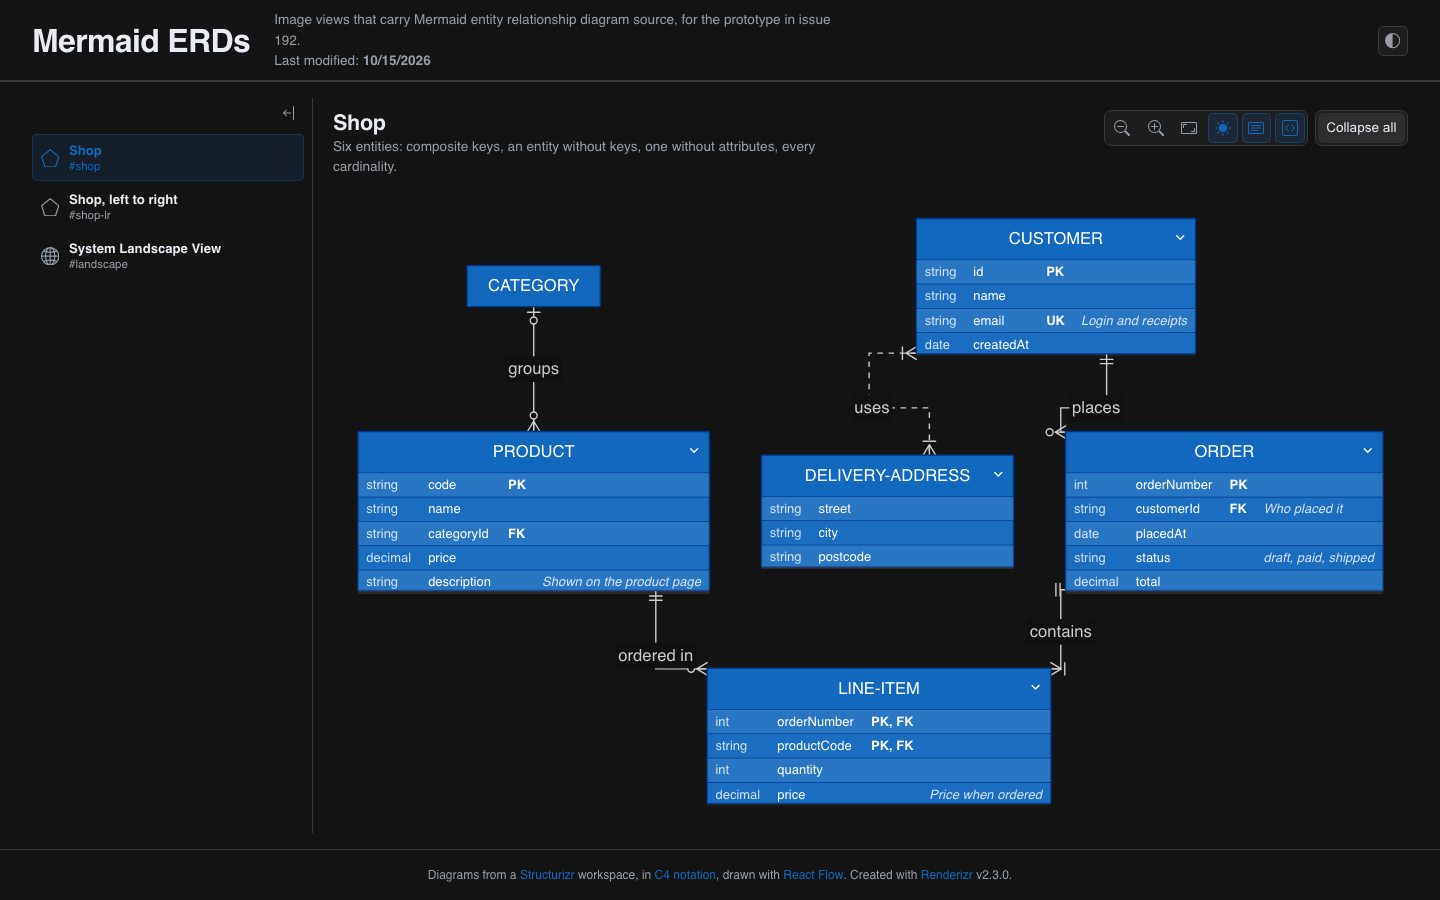
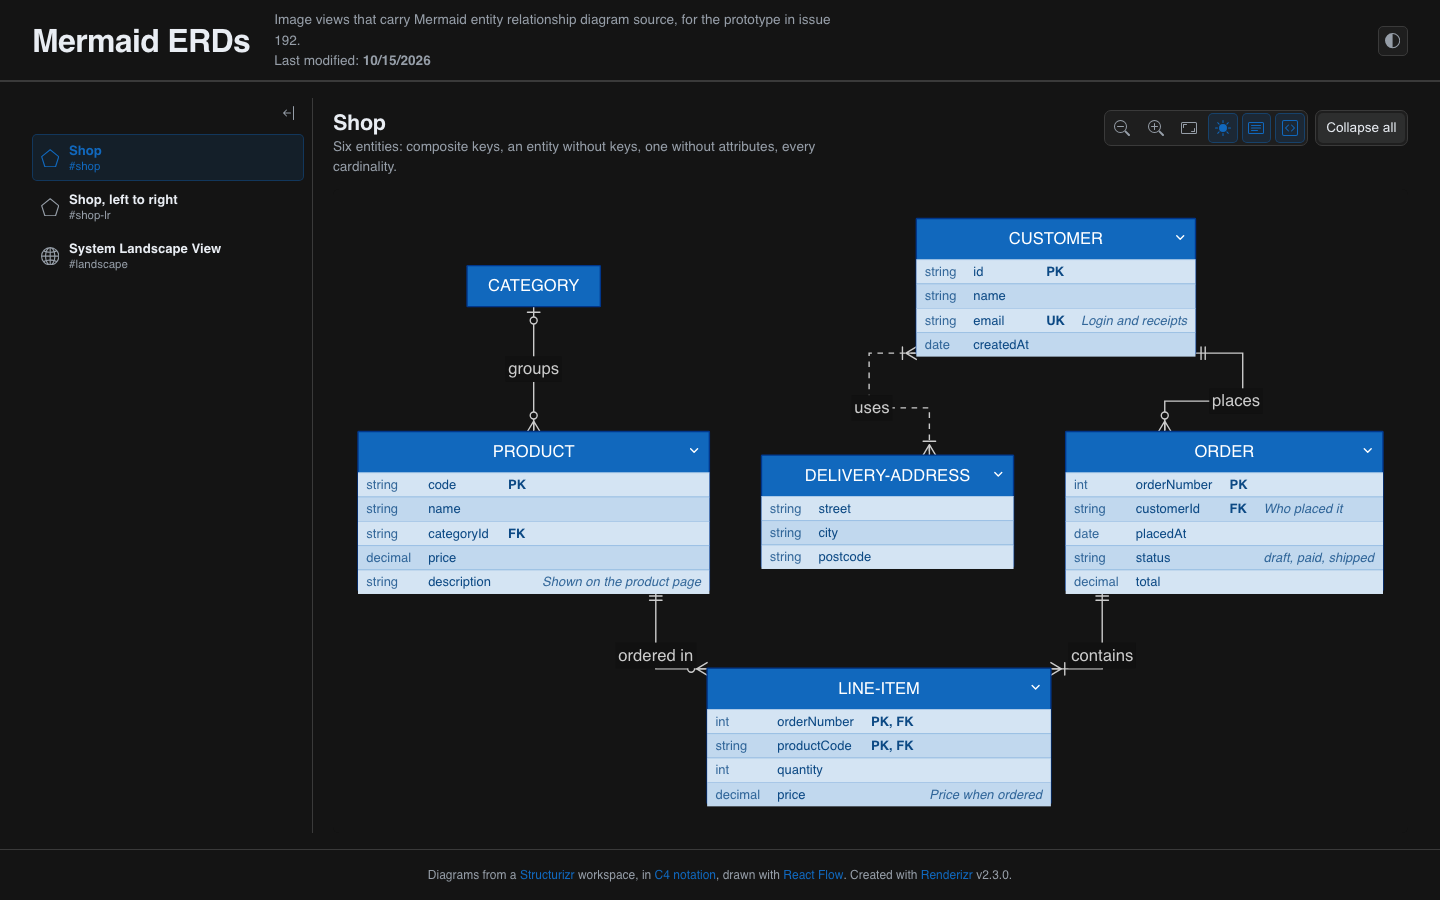
chore: refit on every toggle, tint rows and keep end markers off the route's bends

diff --git a/src/engine/react-flow/island.tsx b/src/engine/react-flow/island.tsx
@@ -371,10 +371,6 @@ const Activate = createContext<IslandProps["onActivate"]>(() => {});
  */
 const Editing = createContext(false);
 const NO_OVERRIDES: Record<string, boolean> = {};
-/** PROTOTYPE (issue 192): `?entity-motion` eases entities to their new places. */
-const ENTITY_MOTION =
-    typeof location !== "undefined" &&
-    new URLSearchParams(location.search).has("entity-motion");
 
 /** PROTOTYPE (issue 192): flips one entity, from its header's chevron. */
 const EntityToggle = createContext<
@@ -479,11 +475,10 @@ function EntityBody({ data }: { data: ElementBox }) {
                         height: entity.rowHeight,
                         alignItems: "center",
                         fontSize: entity.rowSize,
-                        borderTop: `1px solid ${data.stroke}`,
-                        background:
-                            index % 2 === 0
-                                ? "rgba(255,255,255,0.10)"
-                                : "rgba(255,255,255,0.04)",
+                        borderTop: `1px solid color-mix(in srgb, ${data.background ?? "#ffffff"} 40%, #ffffff)`,
+                        // A tint of the fill: odd rows lighter than even ones.
+                        background: `color-mix(in srgb, ${data.background ?? "#ffffff"} ${index % 2 === 0 ? 18 : 26}%, #ffffff)`,
+                        color: `color-mix(in srgb, ${data.background ?? "#000000"} 70%, #000000)`,
                     }}
                 >
                     {cells.map(([cell, width]) =>
@@ -2309,15 +2304,11 @@ function Canvas({
 
     const flow = useReactFlow();
     const wrapper = useRef<HTMLDivElement>(null);
-    /** PROTOTYPE (issue 192): where the flipped entity was, to pan it back under the pointer. */
-    const pendingPan = useRef<{ id: string; x: number; y: number } | null>(
-        null,
-    );
+    // PROTOTYPE (issue 192): every expand or collapse, from a chevron or the
+    // toolbar, refits the diagram as a new view would.
     const toggleEntity = useCallback(
         (id: string) => {
-            const box = graph?.elements.find((element) => element.id === id);
-            pendingPan.current = box ? { id, x: box.x, y: box.y } : null;
-            moved.current = true;
+            moved.current = false;
             setOverrides((before) => {
                 const ids =
                     before.key === viewKey &&
@@ -2332,29 +2323,18 @@ function Canvas({
                 };
             });
         },
-        [graph, viewKey, stored.entitiesCollapsed],
+        [viewKey, stored.entitiesCollapsed],
     );
-    useLayoutEffect(() => {
-        const pan = pendingPan.current;
-        if (!pan || !graph) return;
-        pendingPan.current = null;
-        const box = graph.elements.find((element) => element.id === pan.id);
-        if (!box) return;
-        const viewport = flow.getViewport();
-        flow.setViewport(
-            {
-                x: viewport.x - (box.x - pan.x) * viewport.zoom,
-                y: viewport.y - (box.y - pan.y) * viewport.zoom,
-                zoom: viewport.zoom,
-            },
-            { duration: ENTITY_MOTION ? TRANSITION_MS : 0 },
-        );
-    }, [graph, flow]);
     const [size, setSize] = useState({ width: 0, height: 0 });
     /** The key of the last view fully painted; `data-ready` is true only for it. */
     const [readyKey, setReadyKey] = useState<string | null>(null);
     /** Set once the reader zooms or pans; refits on resize stop until `fit()`. */
     const moved = useRef(false);
+    const shownCollapsed = useRef(stored.entitiesCollapsed);
+    if (shownCollapsed.current !== stored.entitiesCollapsed) {
+        shownCollapsed.current = stored.entitiesCollapsed;
+        moved.current = false;
+    }
     const painted = useRef<string | null>(null);
     // A change to the edited layout never refits, and align, distribute,
     // nudge and select all arrange the selection, by command or by key
@@ -3114,9 +3094,6 @@ function Canvas({
             <Activate.Provider value={onActivate}>
                 <Editing.Provider value={editable}>
                     <EntityToggle.Provider value={toggleEntity}>
-                        {ENTITY_MOTION && (
-                            <style>{`.react-flow__node { transition: transform ${TRANSITION_MS}ms ease-in-out, width ${TRANSITION_MS}ms, height ${TRANSITION_MS}ms; }`}</style>
-                        )}
                         <CanvasBackground.Provider
                             value={graph?.background ?? "#ffffff"}
                         >

diff --git a/src/engine/geometry/routing/route-view.ts b/src/engine/geometry/routing/route-view.ts
@@ -31,6 +31,7 @@ import {
     type DrawnRoute,
     endHeading,
     onOutline,
+    outward,
     polylinePath,
     type RoutingMode,
     SIDES,
@@ -70,6 +71,11 @@ export type RoutingEdge = {
      * it, and the line ends this far short of its target end.
      */
     thickness: number;
+    /**
+     * PROTOTYPE (issue 192): how long each end runs straight out of its
+     * side before the route may bend, so an end marker never sits on a knee.
+     */
+    endRoom?: number;
 };
 
 /**
@@ -147,8 +153,12 @@ export function routeView(
                   source: facingSide(from, vertices[0]),
                   target: facingSide(to, vertices[vertices.length - 1]),
               }
-            : chooseSides(from, to, edge.routing, (a, b) =>
-                  isStraightClear(a, b, others, [from, to], padding),
+            : chooseSides(
+                  from,
+                  to,
+                  edge.routing,
+                  (a, b) => isStraightClear(a, b, others, [from, to], padding),
+                  edge.endRoom,
               );
         sides.set(index, chosen);
         addEnd(source.id, {
@@ -318,7 +328,28 @@ function routeOf(
     const { vertices } = edge;
 
     let points: Point[];
-    if (edge.routing === "Orthogonal") {
+    const room = edge.endRoom ?? 0;
+    if (edge.routing === "Orthogonal" && room > 0 && !vertices.length) {
+        // Route between two stubs `room` out from each side, then add the
+        // ends back: the first and last legs are at least `room` long.
+        const stub = (point: Point, side: typeof sides.source) => {
+            const out = outward(side);
+            return { x: point.x + out.x * room, y: point.y + out.y * room };
+        };
+        points = [
+            start,
+            ...orthogonalRoute(
+                stub(start, sides.source),
+                sides.source,
+                stub(end, sides.target),
+                sides.target,
+                others,
+                [from, to],
+                padding,
+            ),
+            end,
+        ];
+    } else if (edge.routing === "Orthogonal") {
         points = vertices.length
             ? orthogonalThrough(
                   [start, ...vertices, end],

diff --git a/src/engine/geometry/routing/sides.ts b/src/engine/geometry/routing/sides.ts
@@ -95,6 +95,7 @@ export function chooseSides(
     to: Rect,
     mode: RoutingMode,
     isClear: (a: Point, b: Point) => boolean = () => true,
+    room = 0,
 ): EdgeSides {
     if (mode !== "Orthogonal") {
         const source = facingSide(from, centerOf(to));
@@ -116,8 +117,19 @@ export function chooseSides(
                 mode === "Orthogonal"
                     ? Math.abs(b.x - a.x) + Math.abs(b.y - a.y)
                     : Math.hypot(b.x - a.x, b.y - a.y);
+            // PROTOTYPE (issue 192): bends counted from the stubs `room` out
+            // of each side, where the route may first turn.
+            const out = outward(source);
+            const into = outward(target);
             const cost =
-                length + BEND_PENALTY * bendsBetween(a, source, b, target);
+                length +
+                BEND_PENALTY *
+                    bendsBetween(
+                        { x: a.x + out.x * room, y: a.y + out.y * room },
+                        source,
+                        { x: b.x + into.x * room, y: b.y + into.y * room },
+                        target,
+                    );
             if (cost < lowest - CLEARANCE) {
                 lowest = cost;
                 best = { source, target };

diff --git a/src/engine/geometry/entity.ts b/src/engine/geometry/entity.ts
@@ -81,8 +81,14 @@ export function layOutEntity(
     const headerHeight = Math.round(nameSize * 1.2 + 2 * HEADER_PADDING);
     const rowHeight = Math.round(rowSize * 1.8);
     const width = Math.max(header, rowsWidth);
-    // The name column takes whatever the header leaves over.
-    if (rows.length > 0 && width > rowsWidth) columns.name += width - rowsWidth;
+    // The last column shown takes whatever the header leaves over, so keys
+    // sit right after the name.
+    if (rows.length > 0 && width > rowsWidth) {
+        const last = (["comment", "keys", "name"] as const).find(
+            (cell) => columns[cell] > 0,
+        );
+        if (last) columns[last] += width - rowsWidth;
+    }
     return {
         width,
         height: headerHeight + rows.length * rowHeight,

diff --git a/src/engine/react-flow/graph.ts b/src/engine/react-flow/graph.ts
@@ -876,6 +876,8 @@ function drawView(
             style: style.style,
             opacity: style.opacity / 100,
             ...(relationship.properties?.["renderizr.mermaid.end"] && {
+                // The longest marker (zero or more) plus a little.
+                endRoom: 28 * Math.max(1, style.thickness / 2) + 8,
                 ends: [
                     relationship.properties["renderizr.mermaid.start"],
                     relationship.properties["renderizr.mermaid.end"],

diff --git a/research/192-erd-entity-prototype.md b/research/192-erd-entity-prototype.md
@@ -8,16 +8,16 @@ A rough ERD in the React Flow engine, to react to how an entity looks and behave
 pnpm dev -- test/__fixtures__/mermaid-erd.json
 ```
 
-Open the **Shop** or **Shop, left to right** view. Add `?entity-motion` before the hash to ease entities to their new places on a toggle.
+Open the **Shop** or **Shop, left to right** view.
 
 ## What the prototype does
 
 - **Fixture**: `test/__fixtures__/mermaid-erd.json` carries `mermaid-erd/shop.mmd` (six entities: composite keys, an entity with no key attribute, one with no attributes, every cardinality) as `shop` and, with `direction LR`, as `shop-lr`. Structurizr isn't installed here, so the JSON is hand-built the way Structurizr encodes `content`; `workspace.dsl` shows the source it stands for.
 - **Build** (`scripts/mermaid/index.js`, `readErd`): each entity becomes a custom element tagged `Mermaid:entity` that carries its attributes as JSON in a property; each relationship carries its start and end markers in two properties and draws dashed when non-identifying. Mermaid names an edge's cardinalities backwards (`cardA` sits at entity B), which the build undoes.
-- **Page** (`src/engine/geometry/entity.ts`, `graph.ts`): the page sizes an entity from its header and the rows its state shows, with its own text measurement, before Dagre runs. A collapsed entity shows its `PK` and `FK` attributes by name and keys; an expanded one adds the type column, the `UK` and keyless rows and, with descriptions on, the comment column. The name column takes whatever width the header leaves over.
-- **Island** (`island.tsx`): an entity draws as a box node with an HTML header and a row per attribute. The chevron is a real button with `aria-expanded`. Chevron overrides live in the canvas, for the view and the preference they were made under. A chevron click pans so the entity's header keeps its place on screen.
+- **Page** (`src/engine/geometry/entity.ts`, `graph.ts`): the page sizes an entity from its header and the rows its state shows, with its own text measurement, before Dagre runs. A collapsed entity shows its `PK` and `FK` attributes by name and keys; an expanded one adds the type column, the `UK` and keyless rows and, with descriptions on, the comment column. The last column shown takes whatever width the header leaves over, so keys sit right after the name. The header keeps the entity's fill; rows take a light tint of it, with dark text mixed from the fill.
+- **Island** (`island.tsx`): an entity draws as a box node with an HTML header and a row per attribute. The chevron is a real button with `aria-expanded`. Chevron overrides live in the canvas, for the view and the preference they were made under. Every expand or collapse, from a chevron or the toolbar, refits the diagram.
 - **Toolbar** (`current-view.ts`): "Expand all" / "Collapse all" shows on a view the build marks as an ERD, and stores `entitiesCollapsed` beside the label toggles.
-- **End markers**: one, zero or one, one or more and zero or more, drawn as strokes at each end, with hollow circles filled with the canvas background. They replace the arrowhead.
+- **End markers**: one, zero or one, one or more and zero or more, drawn as strokes at each end, with hollow circles filled with the canvas background. They replace the arrowhead. Each end runs straight out of its side for the longest marker's length plus a little before the route may bend, and side choice counts bends from those stubs, so no marker sits on a knee.
 
 ## Pictures
 
@@ -26,20 +26,18 @@ Open the **Shop** or **Shop, left to right** view. Add `?entity-motion` before t
 | Collapsed (first visit) | ![](192/light-shop-collapsed.png) | ![](192/dark-shop-collapsed.png) |
 | Expanded (Expand all) | ![](192/light-shop-expanded.png) | ![](192/dark-shop-expanded.png) |
 | Expanded, ORDER collapsed by its chevron | ![](192/light-shop-order-collapsed.png) | ![](192/dark-shop-order-collapsed.png) |
-| Collapse all after a chevron click | ![](192/light-shop-collapse-all-after-chevron.png) | ![](192/dark-shop-collapse-all-after-chevron.png) |
 | Left to right, collapsed | ![](192/light-shop-lr-collapsed.png) | ![](192/dark-shop-lr-collapsed.png) |
 | Left to right, expanded | ![](192/light-shop-lr-expanded.png) | ![](192/dark-shop-lr-expanded.png) |
 
 ## Findings
 
-- **The entity fits the engine.** The geometry modules take an entity as a Box of the size the page computes; the router, edge labels and the style cascade need no change. The silent source's primary fill carries over from the compact layout prototype.
+- **The entity fits the engine.** The geometry modules take an entity as a Box of the size the page computes; edge labels and the style cascade need no change. The silent source's primary fill carries over from the compact layout prototype.
 - **Sizing belongs to the page.** The size depends on the state, the descriptions toggle and the font, so only the page knows it, as the flowchart prototype found for nodes.
-- **The pan holds.** On a chevron click, the header's screen position stays the same to the pixel in both schemes (1066, 432 before and after). The rest of the diagram rearranges around it.
-- **Collapse all after a chevron click doesn't refit.** The chevron marks the viewport as moved, so the toolbar button keeps it, and a diagram that grows or shrinks can leave entities off screen (CUSTOMER clipped at the top). The label toggles behave the same way today.
-- **The jump.** Dagre rerunning reorders more than the toggled entity: neighbors swap sides and edges reroute. Easing node positions (`?entity-motion`) moves the boxes but not the edges, which the router draws at their final place at once.
+- **Refit on every toggle.** A first try panned so a clicked entity's header kept its screen position to the pixel, but the toolbar button then kept a stale viewport and left entities off screen. Refitting after every expand or collapse keeps the whole diagram in view; the drive checks every entity sits inside the canvas after a chevron click and after Collapse all.
+- **The jump reads well without animation.** Dagre rerunning reorders more than the toggled entity, and a refit shows the new arrangement at once. Easing node positions moved the boxes but not the edges, which the router draws at their final place at once, so the prototype drops it.
+- **Markers need straight ends.** Without a rule, the router bent routes closer to an entity than a marker is long, so markers broke across the knee, worst where entities sit close together. Two router changes fix every edge in the fixture: a stub as long as the marker at each end, and side choice that counts bends from the stubs (otherwise a side whose stub points away from the other entity wins on its midpoint and the route doubles back). Mermaid's rank separation (75) just fits two stubs at the default thickness (36 each).
 - **An entity with no key attribute** collapses to its header and keeps a chevron, which reads well (DELIVERY-ADDRESS). An entity with no attributes draws no chevron (CATEGORY).
-- **End markers on changing heights.** Markers stay on the outline as entities grow and shrink. Two ends that share a side crowd each other (CUSTOMER's `uses` and `places`), which the spacing rule from the edge ends decision covers and this prototype leaves out.
-- **Rows** read in both schemes on the primary fill. Alternating rows use a white overlay, which works on a dark fill only; a light source palette needs another rule.
+- **Shared sides** still crowd where two ends meet one side (CUSTOMER's `uses` and `places` in some states); the spacing rule from the edge ends decision covers that.
 
 ## Left out
 
